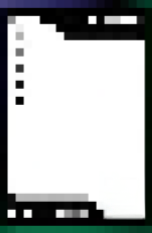
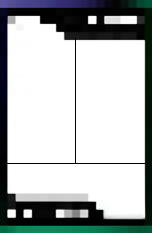
Stats Cartas
ya aparecen todas las estadisticas en las cartas del menu, agrege un nuevo metodo renderizar_estadisticas en el viewJugar para que se renderize de antemano los textos asi no se traba el menu jugar

diff --git a/src/view/JugarView.py b/src/view/JugarView.py
@@ -9,12 +9,13 @@ class JugarView(VentanaView):
     def __init__(self, pantalla):
         super().__init__(pantalla)
         self.__estadio = camp_nou
+        self.__estadisticas = {}
 
     def mostrar(self):
         self._botones = {}
         pygame.display.set_caption("JUGANDO")
         self._pantalla.fill(NEGRO)
-
+        # Dibuja el texto estadio que esta junto a los botones para cambiar los estadios del fondo
         COLOR_FONDO = (120, 120, 120)
         TEXTO_ESTADIO = get_fuente(60).render("ESTADIO", True, BLANCO)
         ESTADIO_RECT = TEXTO_ESTADIO.get_rect(
@@ -22,12 +23,15 @@ class JugarView(VentanaView):
         )
         margen = 20
         fondo_rect = ESTADIO_RECT.inflate(margen, margen)
-
+        # esto muestra el estadio en el fondo
         self.__dibujar_estadio()
-        self._pantalla.blit(imagen_messi_copa, (int(ANCHO * 0.63), int(ALTO * 0.03)))
+        self._pantalla.blit(
+            imagen_messi_copa, (int(ANCHO * 0.63), int(ALTO * 0.03))
+        )  # esto muestra al messiArt en pantalla
         pygame.draw.rect(self._pantalla, COLOR_FONDO, fondo_rect, border_radius=20)
         self._pantalla.blit(TEXTO_ESTADIO, ESTADIO_RECT)
 
+        # BOTONES
         CAMBIAR_FORMACION_ATRAS = self._mostrar_boton(
             boton_flecha_izquierda,
             (ANCHO * 0.31, ALTO * 0.077),
@@ -89,7 +93,7 @@ class JugarView(VentanaView):
             BLANCO,
             ROJO,
         )
-
+        # Guarda los botones como diccionario, recomendacion del profe Luis Luna A.K.A L.L(LA CABRA)
         self._botones["atras"] = JUGAR_ATRAS
         self._botones["comienza"] = JUGAR_COMIENZA
         self._botones["dado"] = DADO
@@ -101,20 +105,40 @@ class JugarView(VentanaView):
     def dibujar_formaciones(self, SCREEN, formaciones, formacion_actual, equipo):
         CARTA_IMAGEN = pygame.image.load(IMAGEN_CARTA)
         CARTA_IMAGEN = pygame.transform.scale(CARTA_IMAGEN, (80, 120))
-        for jugador in equipo:
-            print(jugador.get_nombre())
+        jugadores_asignados = 0  # Contador para asignar jugadores de la lista
         for posicion in POSICIONES:
-            for cordenadas, jugador in zip(
-                formaciones[formacion_actual][posicion], equipo
-            ):
+            # Obtener las coordenadas para la posición actual
+            coordenadas = formaciones[formacion_actual][posicion]
+            # Si ya se usaron todos los jugadores, romper el bucle
+            for cordenadas in coordenadas:
+                if jugadores_asignados >= len(equipo):
+                    break
+                # Obtener el jugador correspondiente
+                jugador = equipo[jugadores_asignados]
+                jugadores_asignados += 1  # Avanzar al siguiente jugador
+                # x,y calculan posición en pantalla para la carta, tambien se usa para guiarnos con el texto
                 x = int(ANCHO * cordenadas[0])
                 y = int(ALTO * cordenadas[1])
-
-                NOMBRE_JUGADOR = self.__ajustar_texto(
-                    jugador.get_nombre(), FUENTE, 70, jugador
-                )
+                # llama a ajustar texto para que el texto se ajuste al tamaño de la carta o a un ancho maximo
+                NOMBRE_JUGADOR = self.__ajustar_texto(jugador.get_nombre(), FUENTE, 70)
+                # Utilizo el diccionario de estadisticas que se hizo con la funicon renderizar_estadisticas
+                estadisticas_jugador = self.__estadisticas[jugador.get_nombre()]
+                PAC = estadisticas_jugador["PAC"]
+                SHO = estadisticas_jugador["SHO"]
+                PAS = estadisticas_jugador["PAS"]
+                DRI = estadisticas_jugador["DRI"]
+                DEF = estadisticas_jugador["DEF"]
+                PHY = estadisticas_jugador["PHY"]
+                # Dibujar carta y nombre del jugador
                 SCREEN.blit(CARTA_IMAGEN, (x, y))
+                SCREEN.blit(PAC, (x + 5, y + 45))
+                SCREEN.blit(SHO, (x + 5, y + 60))
+                SCREEN.blit(PAS, (x + 5, y + 75))
+                SCREEN.blit(DRI, (x + 42.5, y + 45))
+                SCREEN.blit(DEF, (x + 42.5, y + 60))
+                SCREEN.blit(PHY, (x + 42.5, y + 75))
                 SCREEN.blit(NOMBRE_JUGADOR, (x + 8.5, y + 90))
+                self.__renderizar = False
 
     def texto_formacion(self, formacion_actual):
         COLOR_FONDO = (120, 120, 120)
@@ -129,20 +153,43 @@ class JugarView(VentanaView):
         pygame.draw.rect(self._pantalla, COLOR_FONDO, fondo_rect, border_radius=20)
         self._pantalla.blit(TEXTO_FORMACION, FORMACION_RECT)
 
-    def __ajustar_texto(self, texto, fuente, max_ancho, jugador):
-        tamaño = 20
+    def __ajustar_texto(self, texto, fuente, max_ancho):
+        tamaño = 20  # Tamaño inicial
         while True:
-            fuente_actual = pygame.font.Font(fuente, tamaño)
-            texto_renderizado = fuente_actual.render(texto, True, NEGRO)
-            if texto_renderizado.get_width() <= max_ancho:
-                return get_fuente(tamaño).render(jugador.get_nombre(), True, NEGRO)
+            fuente_actual = pygame.font.Font(
+                fuente, tamaño
+            )  # llama a la fuente con el tamaño inicial
+            texto_renderizado = fuente_actual.render(
+                texto, True, NEGRO
+            )  # renderiza el texto
+            if (
+                texto_renderizado.get_width() <= max_ancho
+            ):  # se fija si el texto es menor que el ancho maximo, si no lo es le resta uno al tamaño
+                return get_fuente(tamaño).render(
+                    texto, True, NEGRO
+                )  # si el texto entra en el ancho maximo lo devuelve
             tamaño -= 1
 
     def __dibujar_estadio(self):
-        self._pantalla.blit(self.__estadio, (0, 0))
+        self._pantalla.blit(self.__estadio, (0, 0))  # Dibujo el estadio en la pantalla
 
     def cambiar_estadio(self, estadio):
-        self.__estadio = estadio
+        self.__estadio = estadio  # cambia el estadio, como el main_loop esta escuchando todo el tiempo, la funcion __dibujar_estadio, al cambiarse el estadio se cambia la imagen del fondo
 
     def get_estadio(self):
-        return self.__estadio
+        return self.__estadio  # devuelve el estadio
+
+    # Esta funcion es para optimizar el rendimiento, si alguien lee esto y necesita explicacion del porque mejora el rendimiento preguntenme soy BRUNO
+    def renderizar_estadisticas(self, equipo):
+        for jugador in equipo:
+            estadisticas = {
+                "PAC": self.__ajustar_texto(
+                    f"PAC {jugador.get_velocidad()}", FUENTE, 32
+                ),
+                "SHO": self.__ajustar_texto(f"SHO {jugador.get_disparo()}", FUENTE, 32),
+                "PAS": self.__ajustar_texto(f"PAS {jugador.get_pase()}", FUENTE, 32),
+                "DRI": self.__ajustar_texto(f"DRI {jugador.get_gambeta()}", FUENTE, 32),
+                "DEF": self.__ajustar_texto(f"DEF {jugador.get_defensa()}", FUENTE, 32),
+                "PHY": self.__ajustar_texto(f"PHY {jugador.get_fisico()}", FUENTE, 32),
+            }
+            self.__estadisticas[jugador.get_nombre()] = estadisticas

diff --git a/src/settings.py b/src/settings.py
@@ -24,19 +24,19 @@ COLOR_FONDO = NEGRO
 # Configuracion del juego
 FPS = 60
 FORMACION_PREDETERMINADA = "4-3-3"
-POSICIONES = ["delanteros", "mediocampistas", "defensas", "portero"]
+POSICIONES = ["portero", "defensas", "mediocampistas", "delanteros"]
 FORMACIONES = {
     "4-3-3": {
-        "delanteros": [(0.37, 0.19), (0.47, 0.17), (0.57, 0.19)],  # tupla: (ancho,alto)
-        "mediocampistas": [(0.37, 0.41), (0.47, 0.43), (0.57, 0.41)],
-        "defensas": [(0.32, 0.62), (0.42, 0.64), (0.52, 0.64), (0.62, 0.62)],
         "portero": [(0.47, 0.83)],
+        "defensas": [(0.32, 0.62), (0.42, 0.64), (0.52, 0.64), (0.62, 0.62)],
+        "mediocampistas": [(0.37, 0.41), (0.47, 0.43), (0.57, 0.41)],
+        "delanteros": [(0.37, 0.19), (0.47, 0.17), (0.57, 0.19)],  # tupla: (ancho,alto)
     },
     "4-4-2": {
-        "delanteros": [(0.42, 0.17), (0.52, 0.17)],
-        "mediocampistas": [(0.33, 0.39), (0.43, 0.42), (0.51, 0.42), (0.61, 0.39)],
-        "defensas": [(0.32, 0.62), (0.42, 0.64), (0.52, 0.64), (0.62, 0.62)],
         "portero": [(0.47, 0.83)],
+        "defensas": [(0.32, 0.62), (0.42, 0.64), (0.52, 0.64), (0.62, 0.62)],
+        "mediocampistas": [(0.33, 0.39), (0.43, 0.42), (0.51, 0.42), (0.61, 0.39)],
+        "delanteros": [(0.42, 0.17), (0.52, 0.17)],
     },
 }
 

diff --git a/src/controller/JugarViewControlador.py b/src/controller/JugarViewControlador.py
@@ -29,6 +29,7 @@ class JugarController(Controlador):
             if event.type == pygame.MOUSEBUTTONDOWN:
                 if botones["dado"].checkForInput(mouse_pos):  # Boton del Dado
                     self.__genero_equipo.nuevo_equipo()
+                    self._view.renderizar_estadisticas(self.__genero_equipo._jugadores)
                     self.__comienza_partida = True
                 elif botones["comienza"].checkForInput(
                     mouse_pos
@@ -57,6 +58,7 @@ class JugarController(Controlador):
         pygame.display.update()
 
     def main_loop(self):
+        self._view.renderizar_estadisticas(self.__genero_equipo._jugadores)
         while True:
             mouse_pos = pygame.mouse.get_pos()
             self._view.mostrar()  # Mostrar el menú
